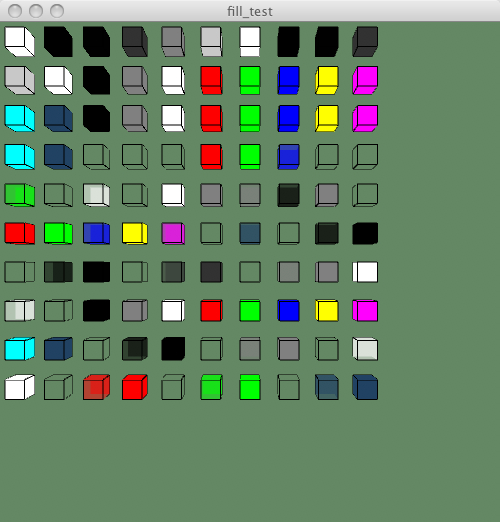
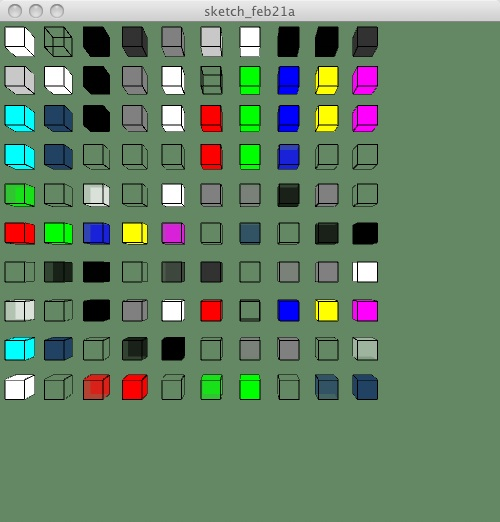
added calls to noFill in test. re-ran p5 with new sketch and updated screenshot.

diff --git a/examples/seneca/fill/test1/fill_test.js b/examples/seneca/fill/test1/fill_test.js
@@ -8,22 +8,18 @@ int boxCounter = 0;
 
 void setup()
 {
- size(500,500,OPENGL);
- 
- // select a color unlike others so transparency
- // is visible.
+  size(500,500,OPENGL);
 
- startX = width/2 - 70;
- startY = height/2 - 60;
+  startX = width/2 - 70;
+  startY = height/2 - 60;
  
- x = startX;
- y = startY;
+  x = startX;
+  y = startY;
 }
 
 void draw()
 {
- // background(0);
- background(100,135,100);
+  background(100,135,100);
   drawBoxes();
 }
 
@@ -35,7 +31,7 @@ void drawBoxes()
   drawNextBox();
 
   // single value
-  fill(0);
+  noFill();
   drawNextBox();
 
   // single value
@@ -84,7 +80,7 @@ void drawBoxes()
   fill(#FFFFFF);
   drawNextBox();
     
-  fill(#FF0000);
+  noFill();
   drawNextBox();
     
   fill(#00FF00);
@@ -280,7 +276,7 @@ void drawBoxes()
   fill(255,0,0);
   drawNextBox();
   
-  fill(0,255,0);
+  noFill();
   drawNextBox();
   
   fill(0,0,255);
